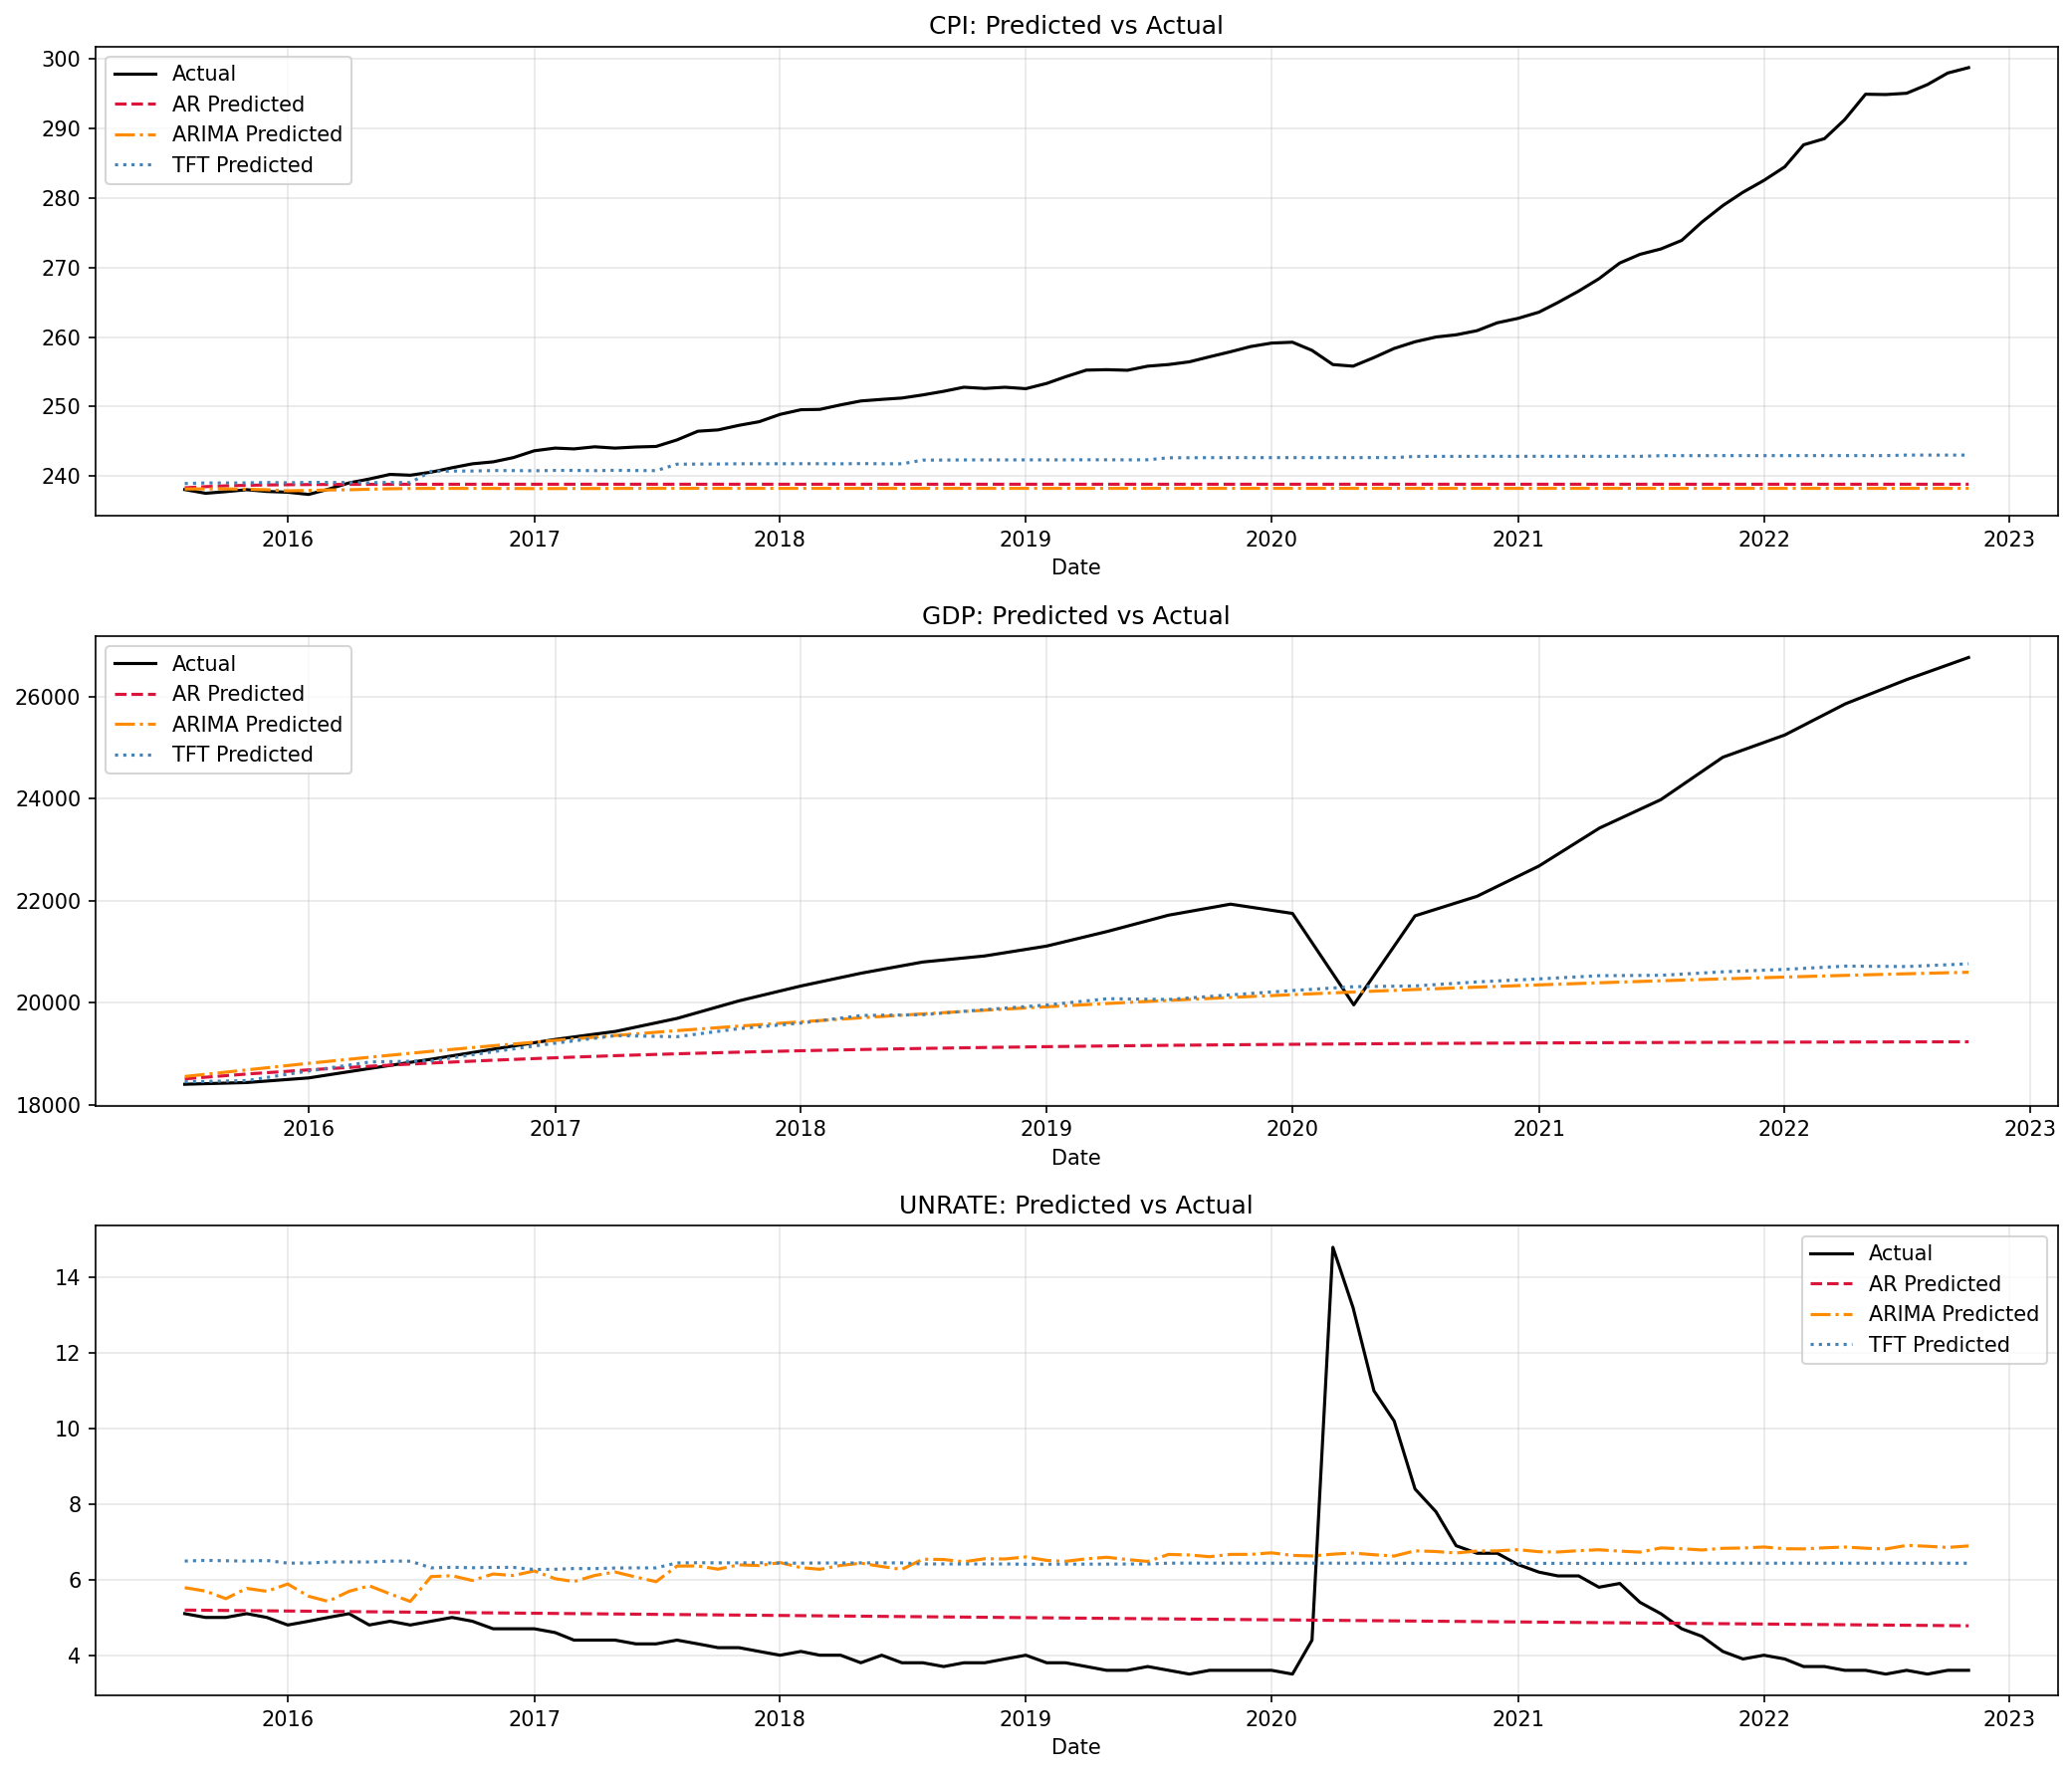
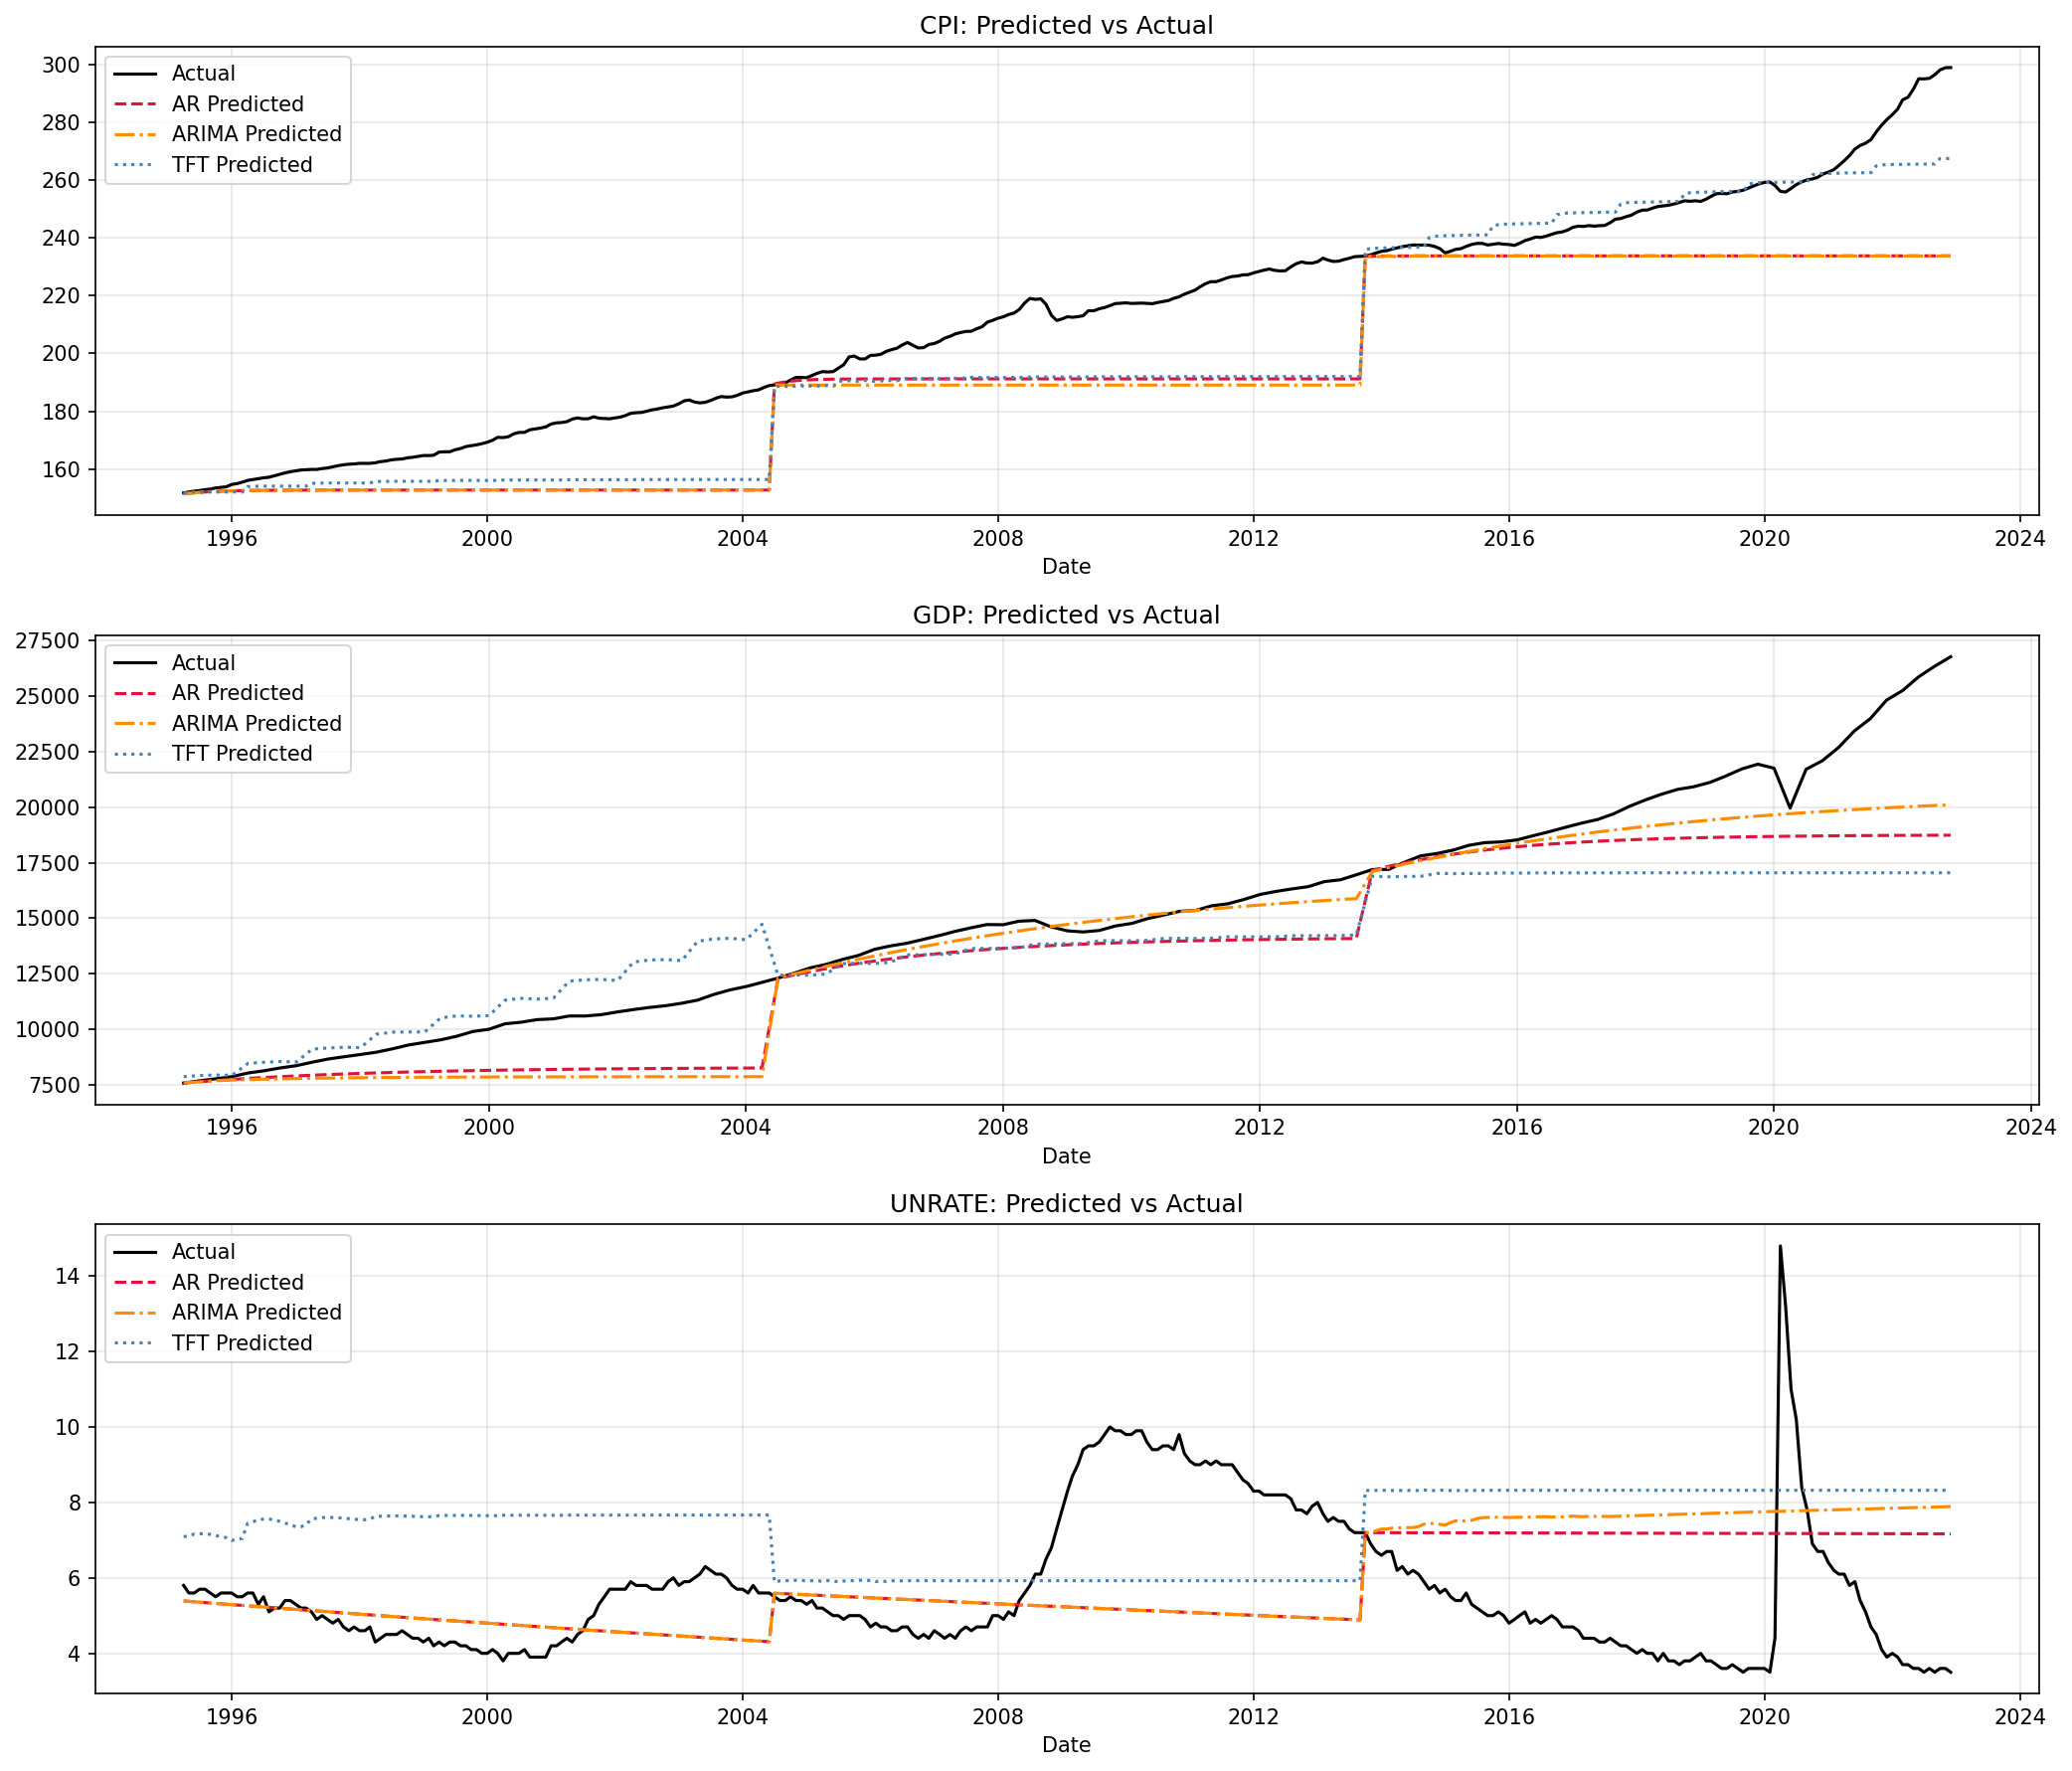
implemented cv (nfolds = 3 atm)

diff --git a/src/holdout-validation/main.py b/src/holdout-validation/main.py
@@ -59,28 +59,40 @@ def compute_metrics(df: pd.DataFrame) -> dict:
 
 # ── save ─────────────────────────────────────────────────────────────────────
 
-# TODO: change here to sort by target
 def save_results(results: dict, out_dir: Path) -> pd.DataFrame:
+    """Save per-fold CSVs + per-fold metrics + fold-averaged metrics."""
     out_dir.mkdir(parents=True, exist_ok=True)
     rows = []
-    for model, model_res in results.items():
-        for target, df in model_res.items():
-            df.to_csv(out_dir / f"{model.lower()}_{target.lower()}_predictions.csv", index=False)
-            m = compute_metrics(df)
-            rows.append({"model": model, "target": target, **m})
+    for model, fold_res in results.items():
+        for fold, target_res in fold_res.items():
+            for target, df in target_res.items():
+                df.to_csv(out_dir / f"{model.lower()}_{target.lower()}_fold{fold}_predictions.csv", index=False)
+                m = compute_metrics(df)
+                rows.append({"model": model, "fold": fold, "target": target, **m})
 
-    metrics_df = pd.DataFrame(rows)[["model", "target", "MAE", "RMSE", "MAPE"]]
-    metrics_df = metrics_df.sort_values(by=["target", "model"]).reset_index(drop=True)
-    metrics_df.to_csv(out_dir / "metrics.csv", index=False)
-    print("\n=== Evaluation Metrics ===")
+    metrics_df = pd.DataFrame(rows)[["model", "fold", "target", "MAE", "RMSE", "MAPE"]]
+    metrics_df = metrics_df.sort_values(by=["target", "model", "fold"]).reset_index(drop=True)
+    metrics_df.to_csv(out_dir / "metrics_per_fold.csv", index=False)
+
+    avg_df = (
+        metrics_df.groupby(["model", "target"])[["MAE", "RMSE", "MAPE"]]
+        .mean().round(4).reset_index()
+        .sort_values(by=["target", "model"]).reset_index(drop=True)
+    )
+    avg_df.to_csv(out_dir / "metrics.csv", index=False)
+
+    print("\n=== Evaluation Metrics (per fold) ===")
     print(metrics_df.to_string(index=False))
-    return metrics_df
+    print("\n=== Evaluation Metrics (averaged across folds) ===")
+    print(avg_df.to_string(index=False))
+    return avg_df
 
 
 # ── plot ──────────────────────────────────────────────────────────────────────
 
 def plot_results(results: dict, out_dir: Path):
-    targets = sorted({t for res in results.values() for t in res})
+    # collect all targets across all folds
+    targets = sorted({t for fold_res in results.values() for tr in fold_res.values() for t in tr})
     _, axes = plt.subplots(len(targets), 1, figsize=(14, 4 * len(targets)), squeeze=False)
 
     colors     = {"AR": "crimson", "ARIMA": "darkorange", "TFT": "steelblue"}
@@ -90,10 +102,12 @@ def plot_results(results: dict, out_dir: Path):
         ax = axes[i][0]
         actual_drawn = False
 
-        for model, model_res in results.items():
-            if target not in model_res:
+        for model, fold_res in results.items():
+            # concatenate predictions across folds (non-overlapping windows → one continuous series)
+            dfs = [fold_res[f][target] for f in sorted(fold_res) if target in fold_res[f]]
+            if not dfs:
                 continue
-            df = model_res[target].dropna(subset=["actual", "predicted"])
+            df = pd.concat(dfs).sort_values("date").dropna(subset=["actual", "predicted"])
 
             if not actual_drawn:
                 ax.plot(df["date"], df["actual"],
@@ -184,52 +198,55 @@ def main():
         f"Holdout : [{holdout['date'].min().date()} – {holdout['date'].max().date()}] "
         f"({len(holdout)} rows)\n"
     )
-    # initiate both runners
-    ar_runner  = ARRunner(dfb)
-    arima_runner  = ARIMARunner(dfb)
-    tft_runner = TFTRunner(dfb)
+    # initiate runners
+    ar_runner    = ARRunner(dfb)
+    arima_runner = ARIMARunner(dfb)
+    tft_runner   = TFTRunner(dfb)
 
-    results: dict[str, dict[str, pd.DataFrame]] = {"AR": {}, "ARIMA": {}, "TFT": {}}
+    # results[model][fold_num][target] = predictions DataFrame
+    results: dict[str, dict[int, dict[str, pd.DataFrame]]] = {
+        "AR":    {s["fold"]: {} for s in splits},
+        "ARIMA": {s["fold"]: {} for s in splits},
+        "TFT":   {s["fold"]: {} for s in splits},
+    }
 
-    # ── 2. let benchmark and tft run ─────────────────────────────────────────
-    for target in args.targets:
-        print(f"\n{'─' * 55}")
-        print(f" Target: {target}")
-        print(f"{'─' * 55}")
+    # ── 2. run all models for each fold × target ──────────────────────────────
+    for fold_idx, s in enumerate(splits):
+        fold_num = s["fold"]
+        for target in args.targets:
+            print(f"\n{'─' * 55}")
+            print(f" Fold {fold_num} | Target: {target}")
+            print(f"{'─' * 55}")
 
-        print("\n[AR(1)]")
-        ar_runner.run(splits, target=target, fold=0)
-        ar_df = ar_runner.predict(splits, target=target, fold=0)
-        results["AR"][target] = ar_df
-        print(f"  → {len(ar_df)} predictions")
+            print("\n[AR(1)]")
+            ar_runner.run(splits, target=target, fold=fold_idx)
+            ar_df = ar_runner.predict(splits, target=target, fold=fold_idx)
+            results["AR"][fold_num][target] = ar_df
+            print(f"  → {len(ar_df)} predictions")
 
+            print("\n[ARIMA]")
+            arima_order, arima_seasonal = arima_runner.run(splits, target=target, fold=fold_idx)
+            arima_df = arima_runner.predict(splits, target=target, fold=fold_idx)
+            results["ARIMA"][fold_num][target] = arima_df
+            print(f"  → {len(arima_df)} predictions (order={arima_order}, seasonal={arima_seasonal})")
 
-        # add arima order for each variable
-        print("\n[ARIMA]")
-        arima_order, arima_seasonal = arima_runner.run(splits, target=target, fold=0)
-        arima_df = arima_runner.predict(splits, target=target, fold=0)
-        results["ARIMA"][target] = arima_df
-        print(f"  → {len(arima_df)} predictions (order={arima_order}, seasonal={arima_seasonal})")
+            print("\n[TFT – training]")
+            ckpt = tft_runner.run(
+                splits, target=target, fold=fold_idx,
+                use_wandb=args.wandb, device=args.device,
+            )
+            print(f"  → best checkpoint: {ckpt}")
 
-        print("\n[TFT – training]")
-        ckpt = tft_runner.run(
-            splits, target=target, fold=0,
-            use_wandb=args.wandb, device=args.device,
-        )
-        print(f"  → best checkpoint: {ckpt}")
+            print("\n[TFT – interpretation]")
+            interpretation = tft_runner.interpret_output()
+            print(f"interpretation: {interpretation}")
 
-        # plot the vars that contribute most
-        print("\n[TFT – interpretation]")
-        interpretation = tft_runner.interpret_output(out_dir)
-        print(f"interpretation: {interpretation}")
-
-
-        print("\n[TFT – inference]")
-        tft_df = tft_runner.predict(
-            ckpt, splits, target=target, fold=0, device=args.device,
-        )
-        results["TFT"][target] = tft_df
-        print(f"  → {len(tft_df)} predictions")
+            print("\n[TFT – inference]")
+            tft_df = tft_runner.predict(
+                ckpt, splits, target=target, fold=fold_idx, device=args.device,
+            )
+            results["TFT"][fold_num][target] = tft_df
+            print(f"  → {len(tft_df)} predictions")
 
     # ── 3. save predictions vs. actuals, calculate eval metrics ──────────────
     save_results(results, out_dir)

diff --git a/src/holdout-validation/data_frame_builder.py b/src/holdout-validation/data_frame_builder.py
@@ -27,7 +27,7 @@ class DataFrameBuilder:
       self.path = os.getcwd()
     else:
        self.path = path
-    self.N_FOLDS = 1 # holdout cv
+    self.N_FOLDS = 3 # holdout cv
     self.FINAL_HOLDOUT = 12 # 12 months = 1 year
     # data without holdout
     self.TRAIN_DEC = 0.8
@@ -352,15 +352,18 @@ class DataFrameBuilder:
      # first remove final holdout, not part of cv!
     df_holdout = df.iloc[-self.FINAL_HOLDOUT:].reset_index(drop=True)
 
+    # divide df_cv into (N_FOLDS + 1) equal blocks; each fold uses one block as test,
+    # all preceding blocks as training — standard expanding-window CV
+    n = len(df_cv)
+    test_size = n // (self.N_FOLDS + 1)
     splits = []
-    # rolling window cv
     for i in range(self.N_FOLDS):
-        train_end = (i + 1) * int(len(df_cv)*self.TRAIN_DEC)
-        test_end = train_end + int(len(df_cv)*(1-self.TRAIN_DEC))
+        train_end = (i + 1) * test_size
+        test_end  = min(train_end + test_size, n)
         splits.append({
             "fold": i + 1,
             "train": df_cv.iloc[:train_end],
-            "test": df_cv.iloc[train_end:test_end],
+            "test":  df_cv.iloc[train_end:test_end],
         })
 
     return splits, df_holdout
@@ -418,7 +421,7 @@ class DataFrameBuilder:
 
   def get_data(self, splits, train: bool= True,  model: str = "TFT", target: str = "CPI", fold = 0):
     """
-    fold   : 1 fold only atm
+    fold   : 0-based index into splits
     train  : True → training split, False → test split
     model  : "AR" or "ARIMA" → univariate series resampled to native frequency
              "TFT"           → full daily dataframe

diff --git a/README.md b/README.md
@@ -39,12 +39,12 @@ python src/holdout-validation/main.py --wandb --device cuda
 
 Single target:
 ```bash
-python src/holdout-validation/main.py --wandb --device cpu
+python src/holdout-validation/main.py --target CPI --device cpu
 ```
 
 With FOMC speech embeddings:
 ```bash
-python src/holdout-validation/main.py --embedding fomc-roberta --wandb --device cuda
+python src/holdout-validation/main.py --target CPI --embedding fomc-roberta --wandb --device cuda
 ```
 
 With FOMC speech embeddings:

diff --git a/src/chris-tft-notes.md b/src/chris-tft-notes.md
@@ -28,9 +28,6 @@
 # Individual To Do's 
 
 ## minna:
-- check transfirmation: if you take the log of all vars? maybe try both?
-- adapt the `data_frame_builder` with the new embeddings timeline: 1986-2023 (so holdout 6 months, then train & validation)
-- (check if gdp predicts 12 months or 4 years)
 - multiple folds
 - hyperparam tuning (with nested cv) -> chris
 - why are the predictions always linear? look at AR weight matrices